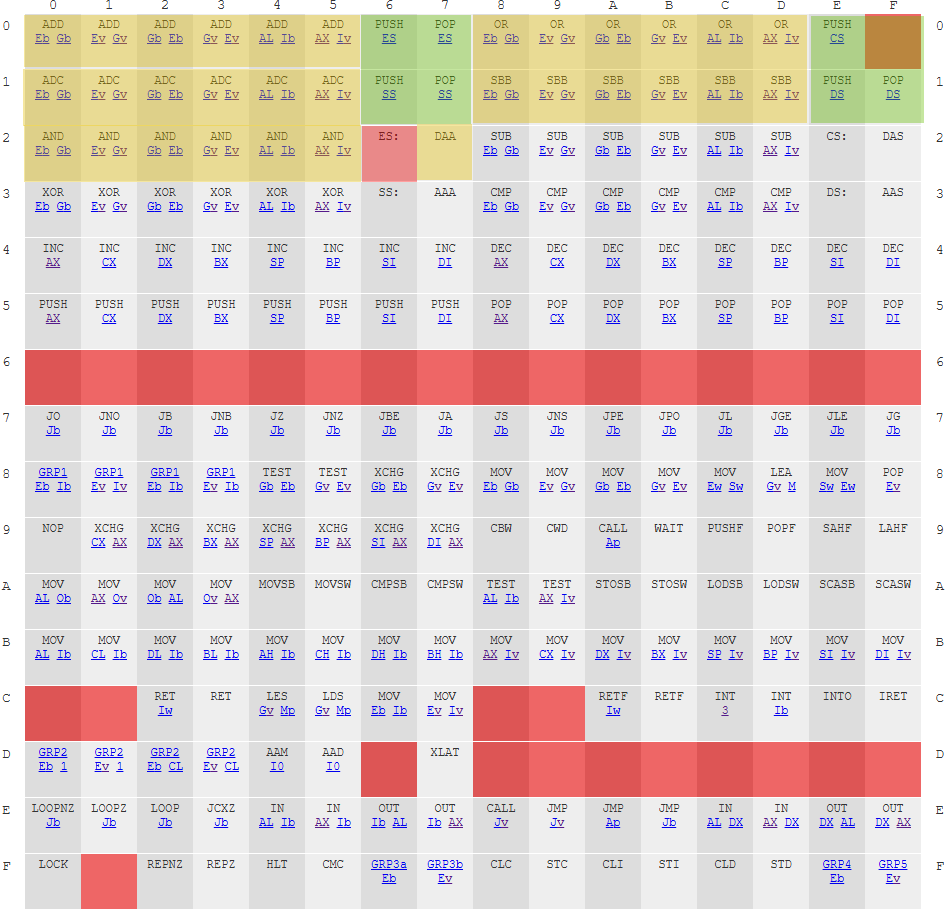
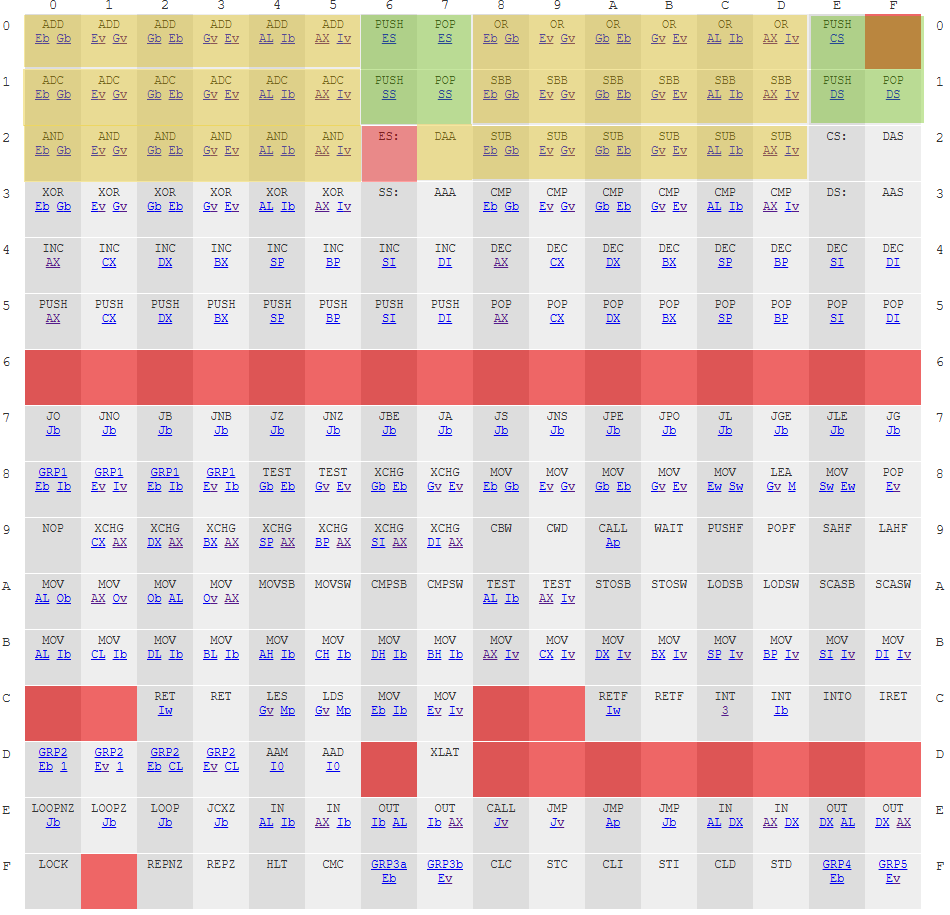
опкод SUB

Changed region(s): [[0.4884, 0.1224, 0.8547, 0.2142]]

diff --git a/src/main/java/ru/gikexe/the8086mc/Processor.java b/src/main/java/ru/gikexe/the8086mc/Processor.java
@@ -481,4 +481,48 @@ public class Processor {
 			setFlag(CF, false);
 		}
 	}
+
+	private void _0x28() { // SUB
+		ModRM modRM = readModRM();
+		MemoryAccess[] ops = getOperands(modRM, false);
+		int value = ops[0].read() - ops[1].read();
+		ops[0].write(value);
+		setFlag(ZF, (value & 0xFF) == 0);
+	}
+
+	private void _0x29() { // SUB
+		ModRM modRM = readModRM();
+		MemoryAccess[] ops = getOperands(modRM, true);
+		int value = ops[0].read() - ops[1].read();
+		ops[0].write(value);
+		setFlag(ZF, (value & 0xFFFF) == 0);
+	}
+
+	private void _0x2A() { // SUB
+		ModRM modRM = readModRM();
+		MemoryAccess[] ops = getOperands(modRM, false);
+		int value = ops[1].read() - ops[0].read();
+		ops[1].write(value);
+		setFlag(ZF, (value & 0xFF) == 0);
+	}
+
+	private void _0x2B() { // SUB
+		ModRM modRM = readModRM();
+		MemoryAccess[] ops = getOperands(modRM, true);
+		int value = ops[1].read() - ops[0].read();
+		ops[1].write(value);
+		setFlag(ZF, (value & 0xFFFF) == 0);
+	}
+
+	private void _0x2C() { // SUB
+		int value = AL.read() - readByte();
+		AL.write(value);
+		setFlag(ZF, (value & 0xFF) == 0);
+	}
+
+	private void _0x2D() { // SUB
+		int value = AX.read() - readWord();
+		AX.write(value);
+		setFlag(ZF, (value & 0xFFFF) == 0);
+	}
 }
